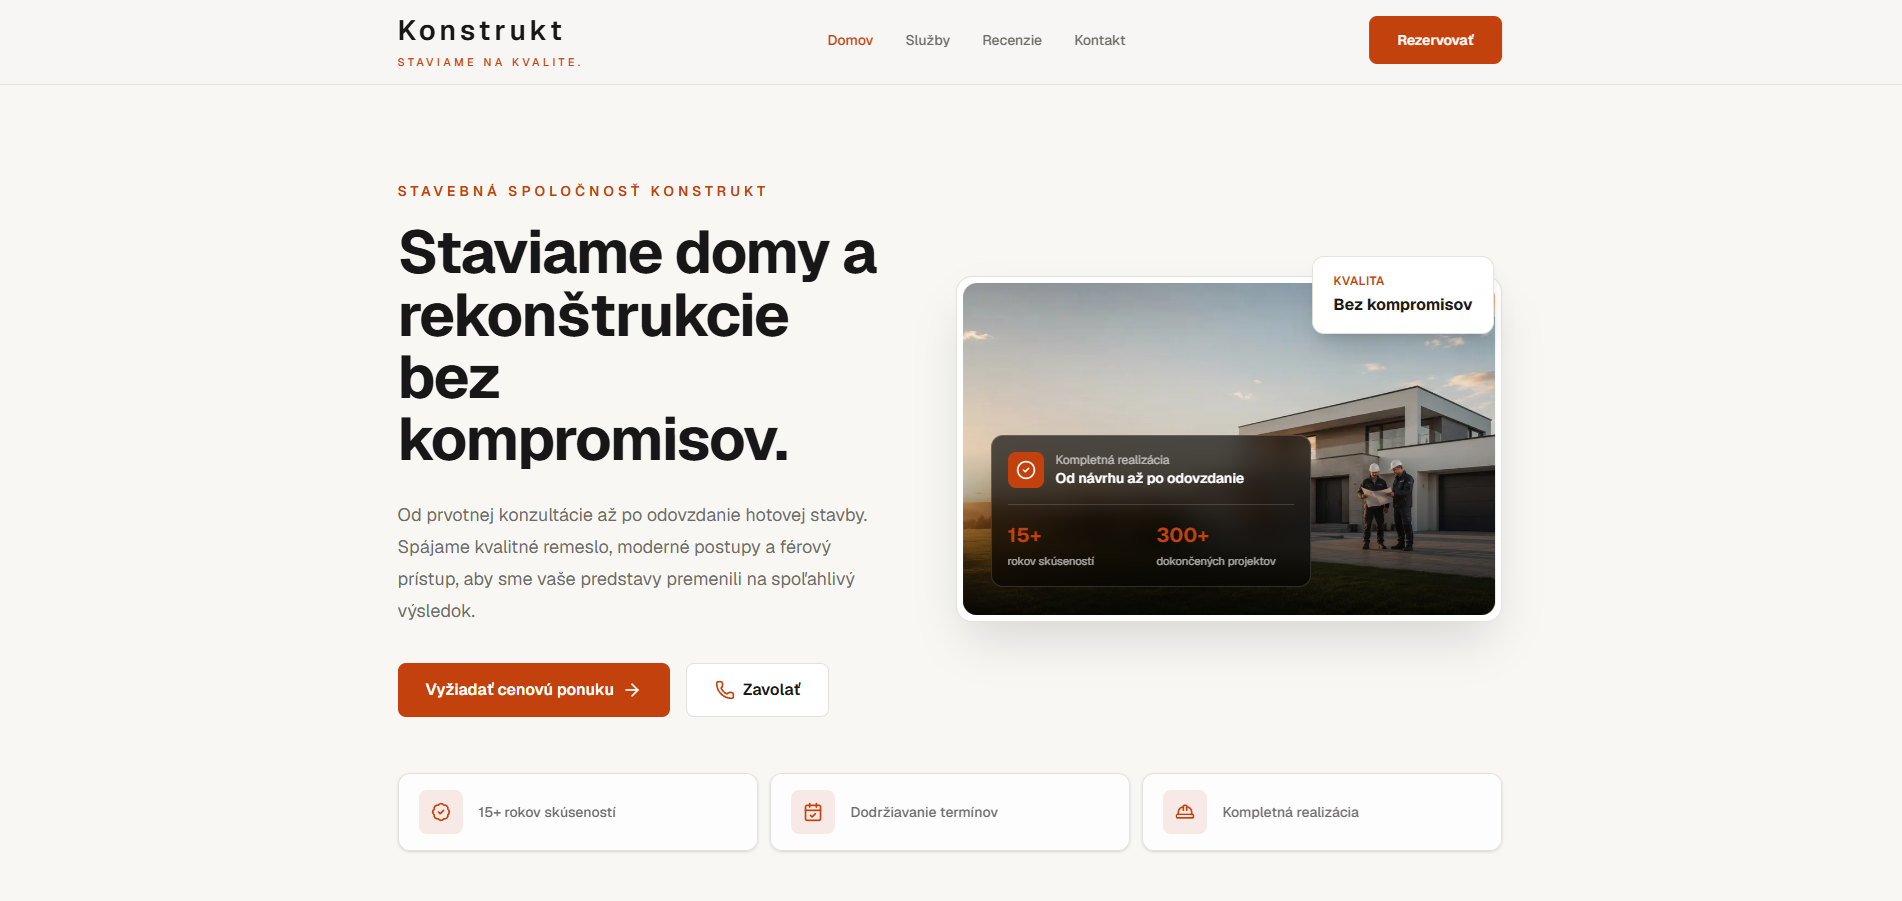
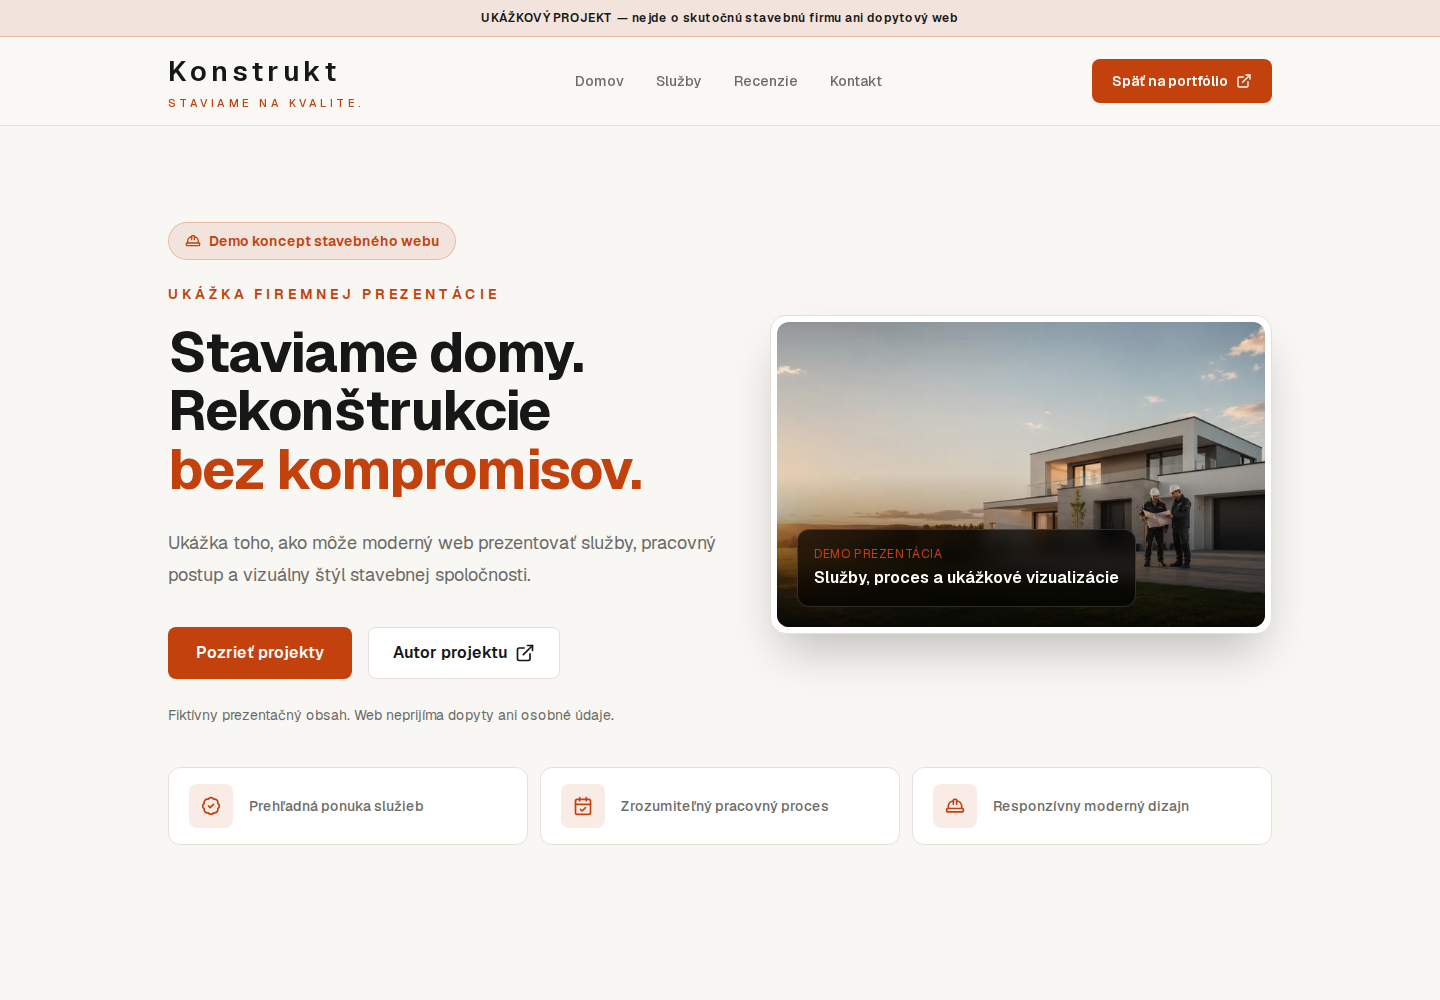
feat: update Konstrukt showcase and case study

diff --git a/data/projects.ts b/data/projects.ts
@@ -27,11 +27,11 @@ export const projects: Project[] = [
     category: "Stavebníctvo",
     year: "2026",
     description:
-      "Ukážkový koncept firemného webu pre stavebnú spoločnosť so zameraním na dôveryhodnú prezentáciu služieb a realizácií.",
+      "Ukážkový firemný web pre stavebnú spoločnosť s výraznou prezentáciou projektov a klikateľnými detailmi.",
     goal:
-      "Navrhnúť prehľadnú online prezentáciu, ktorá návštevníkovi rýchlo predstaví skúsenosti firmy a nasmeruje ho k nezáväznému dopytu.",
+      "Predstaviť ukážkové projekty hneď po úvode a vytvoriť jasnú cestu od vizuálnej ukážky cez služby k informáciám o spolupráci.",
     result:
-      "Responzívny web s galériou realizácií, štruktúrou služieb, prehľadom realizácií a služieb, jasnými výzvami k akcii, responzívnym zobrazením a optimalizovaným výkonom.",
+      "Responzívny web s asymetrickou galériou, detailmi projektov a prepínaním medzi nimi. Upravené poradie sekcií zachováva pôvodnú vizuálnu identitu a zvýrazňuje obrazový obsah.",
     image: "/images/projects/konstrukt.png",
     caseStudyUrl: "/blog/case-study-konstrukt",
     technologies: [
